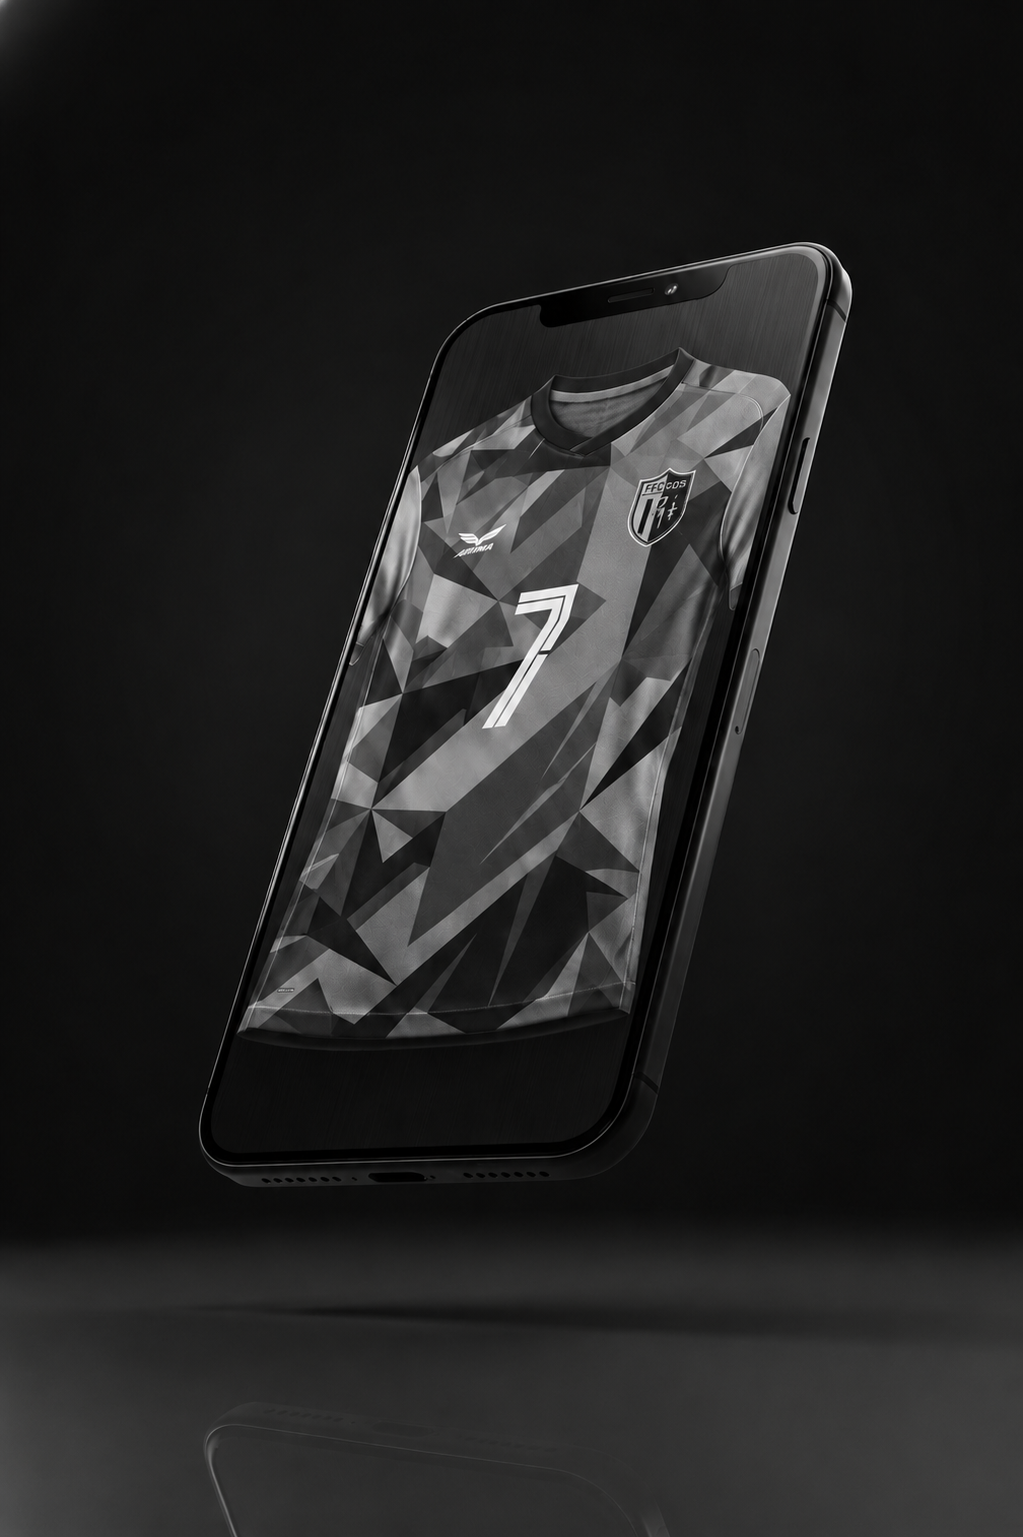
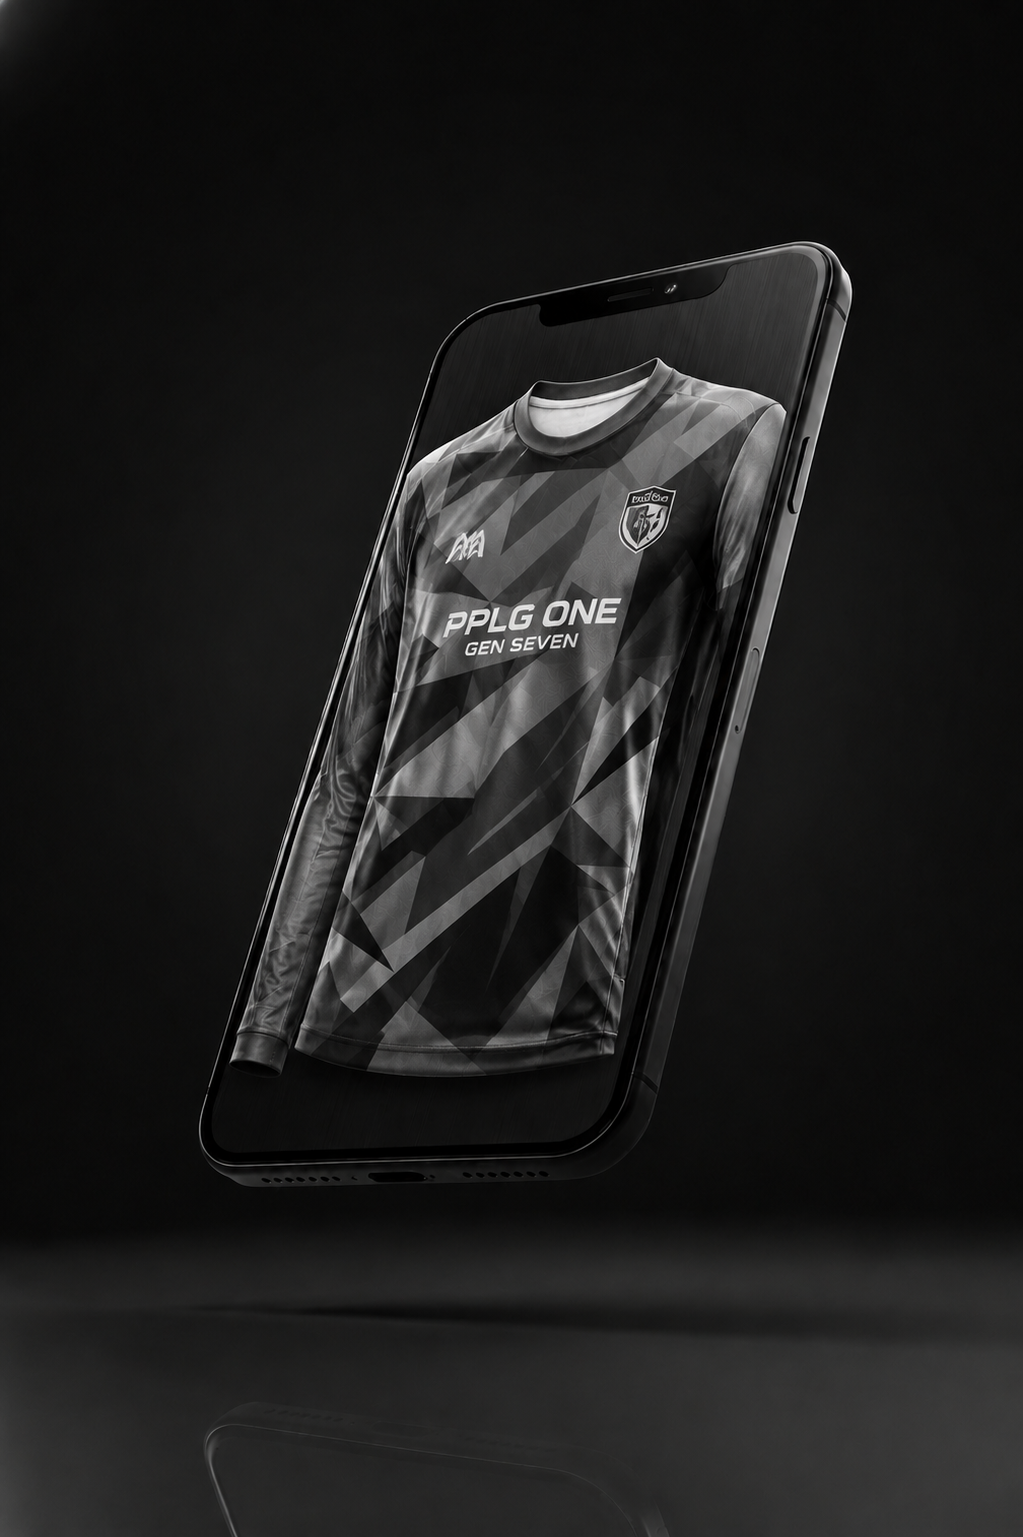
menyesuaikan kembali halaman work & memasang link sosmed terbaru

Changed region(s): [[0.2121, 0.2186, 0.7879, 0.7183], [0.6364, 0.1561, 0.8182, 0.1874]]

diff --git a/src/sections/PortfolioSection.tsx b/src/sections/PortfolioSection.tsx
@@ -3,40 +3,40 @@ import { ProjectCard } from "@/components/ProjectCard";
 
 const PROJECTS = [
    {
-      image: "/images/project-1-striker.png",
-      name: "STRIKER FC",
+      image: "/images/js-pplg-one.png",
+      name: "PPLG ONE",
       category: "JERSEY FUTSAL",
-      description: "Geometri merah-hitam yang agresif untuk klub futsal yang haus kemenangan.",
+      description: "Jersey futuristik dengan gradasi ungu dan merah muda yang memberikan kesan modern dan elegan.",
    },
    {
-      image: "/images/project-2-bluewave.png",
-      name: "BLUE WAVE FC",
+      image: "/images/js-batu-hijau.png",
+      name: "BATU HIJAU",
       category: "JERSEY SEPAKBOLA",
-      description: "Gradasi modern yang bersih — tampilan profesional untuk tim sepakbola yang sedang berkembang.",
+      description: "Jersey bernuansa kuning dan biru gelap yang mencerminkan semangat serta energi kompetitif.",
    },
    {
-      image: "/images/project-3-noise.png",
-      name: "NOISE",
-      category: "KAOS STREETWEAR",
-      description: "Desain berbasis tipografi yang berani. Keras, mentah, khas kultur jalanan.",
+      image: "/images/js-watu-meta.png",
+      name: "WATU META",
+      category: "JERSEY SEPAKBOLA",
+      description: "Jersey sepak bola bergaya klasik dengan motif garis vertikal yang tampil sportif dan berkarakter.",
    },
    {
-      image: "/images/project-4-voltage.png",
-      name: "VOLTAGE",
-      category: "JERSEY BASKET",
-      description: "Energi elektrik di setiap jahitan. Gradasi ungu-hijau untuk dampak visual maksimal.",
+      image: "/images/js-xii-ips2.png",
+      name: "XII IPS 2",
+      category: "JERSEY SEPAKBOLA",
+      description: "Jersey kelas sepak abu-abu putih dengan desain tegas yang memberikan kesan kuat dan profesional.",
    },
    {
-      image: "/images/project-5-cyber.png",
-      name: "CYBER LEAGUE",
-      category: "JERSEY ESPORTS",
-      description: "Estetika cyberpunk futuristik yang dirancang khusus untuk tim gaming profesional.",
+      image: "/images/polo-best-mom.png",
+      name: "BEST MOM",
+      category: "POLO SHIRT STREETWEAR",
+      description: "Kaos polo minimalis dengan tampilan sederhana yang terlihat rapi dan modern.",
    },
    {
-      image: "/images/project-6-void.png",
-      name: "VOID",
-      category: "HOODIE STREETWEAR",
-      description: "Minimalis hitam-di-atas-hitam dengan tekstur halus. Kesederhanaan yang berkelas.",
+      image: "/images/js-pplg-one-v2.png",
+      name: "PPLG ONE V2",
+      category: "JERSEY FUTSAL",
+      description: "Jersey futsal lengan panjang dengan desain gradasi yang tampil modern dan nyaman digunakan pria maupun wanita.",
    },
 ];
 

diff --git a/src/sections/HeroSection.tsx b/src/sections/HeroSection.tsx
@@ -117,9 +117,10 @@ export function HeroSection() {
 
                   {/* Tombol Aksi */}
                   <div ref={ctaRef} className="flex flex-wrap gap-4 mt-8">
-                     <CTAButton onClick={() => scrollTo("order")}>PESAN DESAIN SEKARANG</CTAButton>
-                     <CTAButton variant="secondary" onClick={() => scrollTo("pricing")}>
-                        LIHAT DAFTAR HARGA
+                     <CTAButton onClick={() => window.open("https://wa.me/6281999310962", "_blank")}>PESAN DESAIN SEKARANG</CTAButton>
+
+                     <CTAButton variant="secondary" onClick={() => scrollTo("portfolio")}>
+                        LIHAT CONTOH DESAIN
                      </CTAButton>
                   </div>
 

diff --git a/src/sections/ContactSection.tsx b/src/sections/ContactSection.tsx
@@ -22,8 +22,8 @@ const CONTACT_METHODS = [
    {
       icon: MessageCircle,
       label: "WhatsApp",
-      value: "+62 8XX XXXX XXXX",
-      href: "https://wa.me/628XXXXXXXXXX",
+      value: "[phone redacted]",
+      href: "https://wa.me/6281999310962?text=Halo%20Ariful,%20saya%20ingin%20bertanya%20tentang%20jasa%20desain.",
    },
 ];
 

diff --git a/index.html b/index.html
@@ -4,6 +4,7 @@
       <meta charset="UTF-8" />
       <meta name="viewport" content="width=device-width, initial-scale=1.0" />
       <title>Ariful Fahmi | Desainer</title>
+      <link rel="shortcut icon" href="favicon.png" type="image/x-icon">
       <meta name="google-site-verification" content="JQQ8DqEPYMoiky8bP1YNad_YaFfQIOaH8CxIcbFxy9s" />
 
       <meta name="description" content="Ariful Fahmi menyediakan jasa desain jersey esports, futsal, komunitas, dan kaos streetwear modern untuk wilayah Ende, Penggajawa, Nangapanda, dan sekitarnya dengan file siap cetak berkualitas tinggi." />